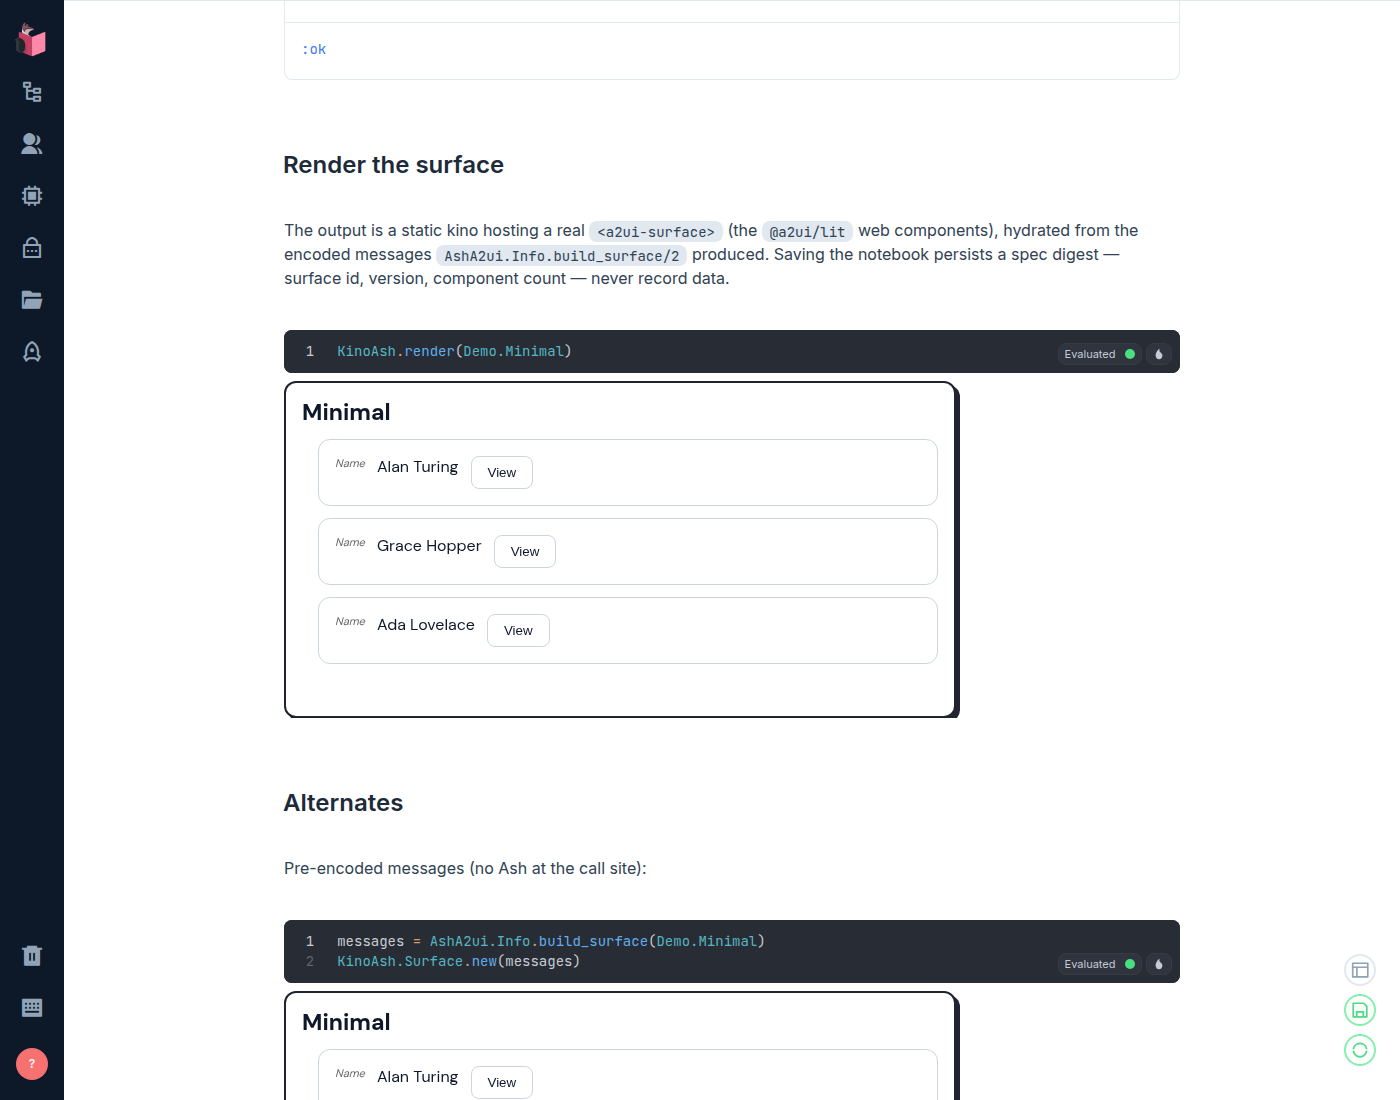
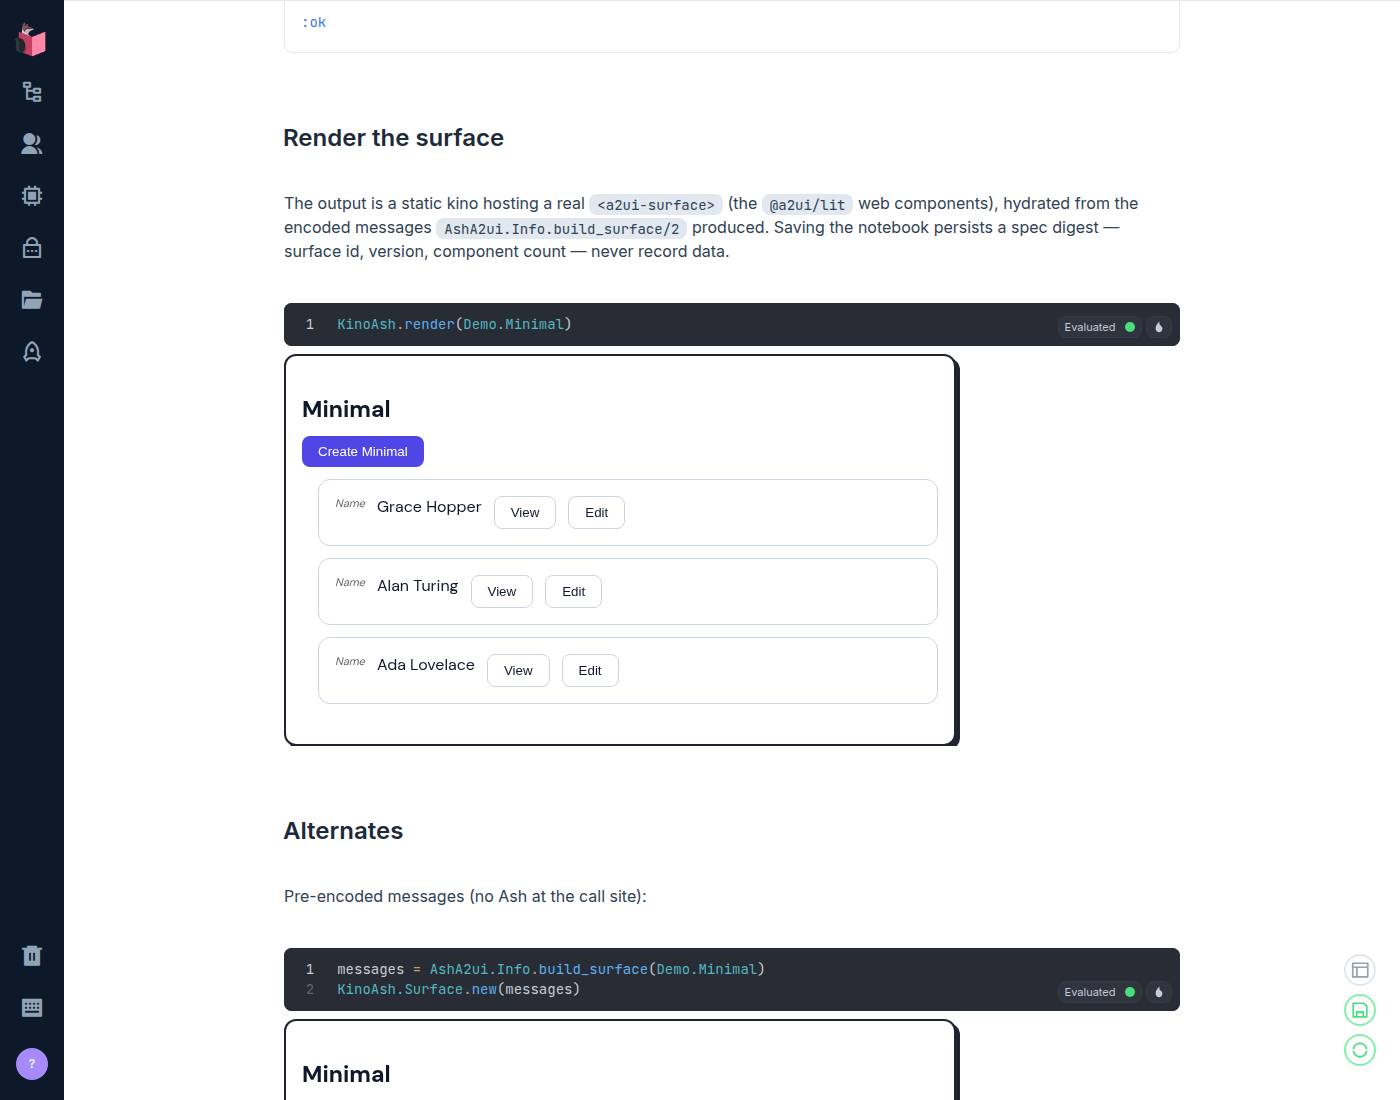
Demo renders the 1d0f6fe interaction model: table + form surface
The bumped encoder gates row View/Edit affordances behind a form target
(suppressing dead buttons on formless surfaces), so the table-only demo
surface hydrated with zero controls. Give the demo surface a form
component: rows show View/Edit, the create affordance renders, and the
playwright-verified control count is 57 deep. Screenshot refreshed from
the fresh-install Livebook run.

diff --git a/README.md b/README.md
@@ -52,8 +52,12 @@ record data, because kino assets are served unauthenticated.
 (docker, playwright-driven) on every slice: all six cells evaluate, and
 the render cell's output is a hydrated A2UI surface — the
 `data-a2ui-hydrated` marker set (pierce the shadow DOM to see it), the
-seeded records visible as rows with controls, no `[object Object]`
-anywhere, zero console errors.
+seeded records visible as rows with View/Edit controls plus the create
+affordance, no `[object Object]` anywhere, zero console errors. The demo
+surface declares a table *and* a form component: since the ash_a2ui
+interaction-model change, row View/Edit affordances are emitted only
+when a form target exists, so a table-only surface would render rows
+without controls.
 
 ![kino_ash demo rendering in Livebook](notebooks/demo-livebook.png)
 
